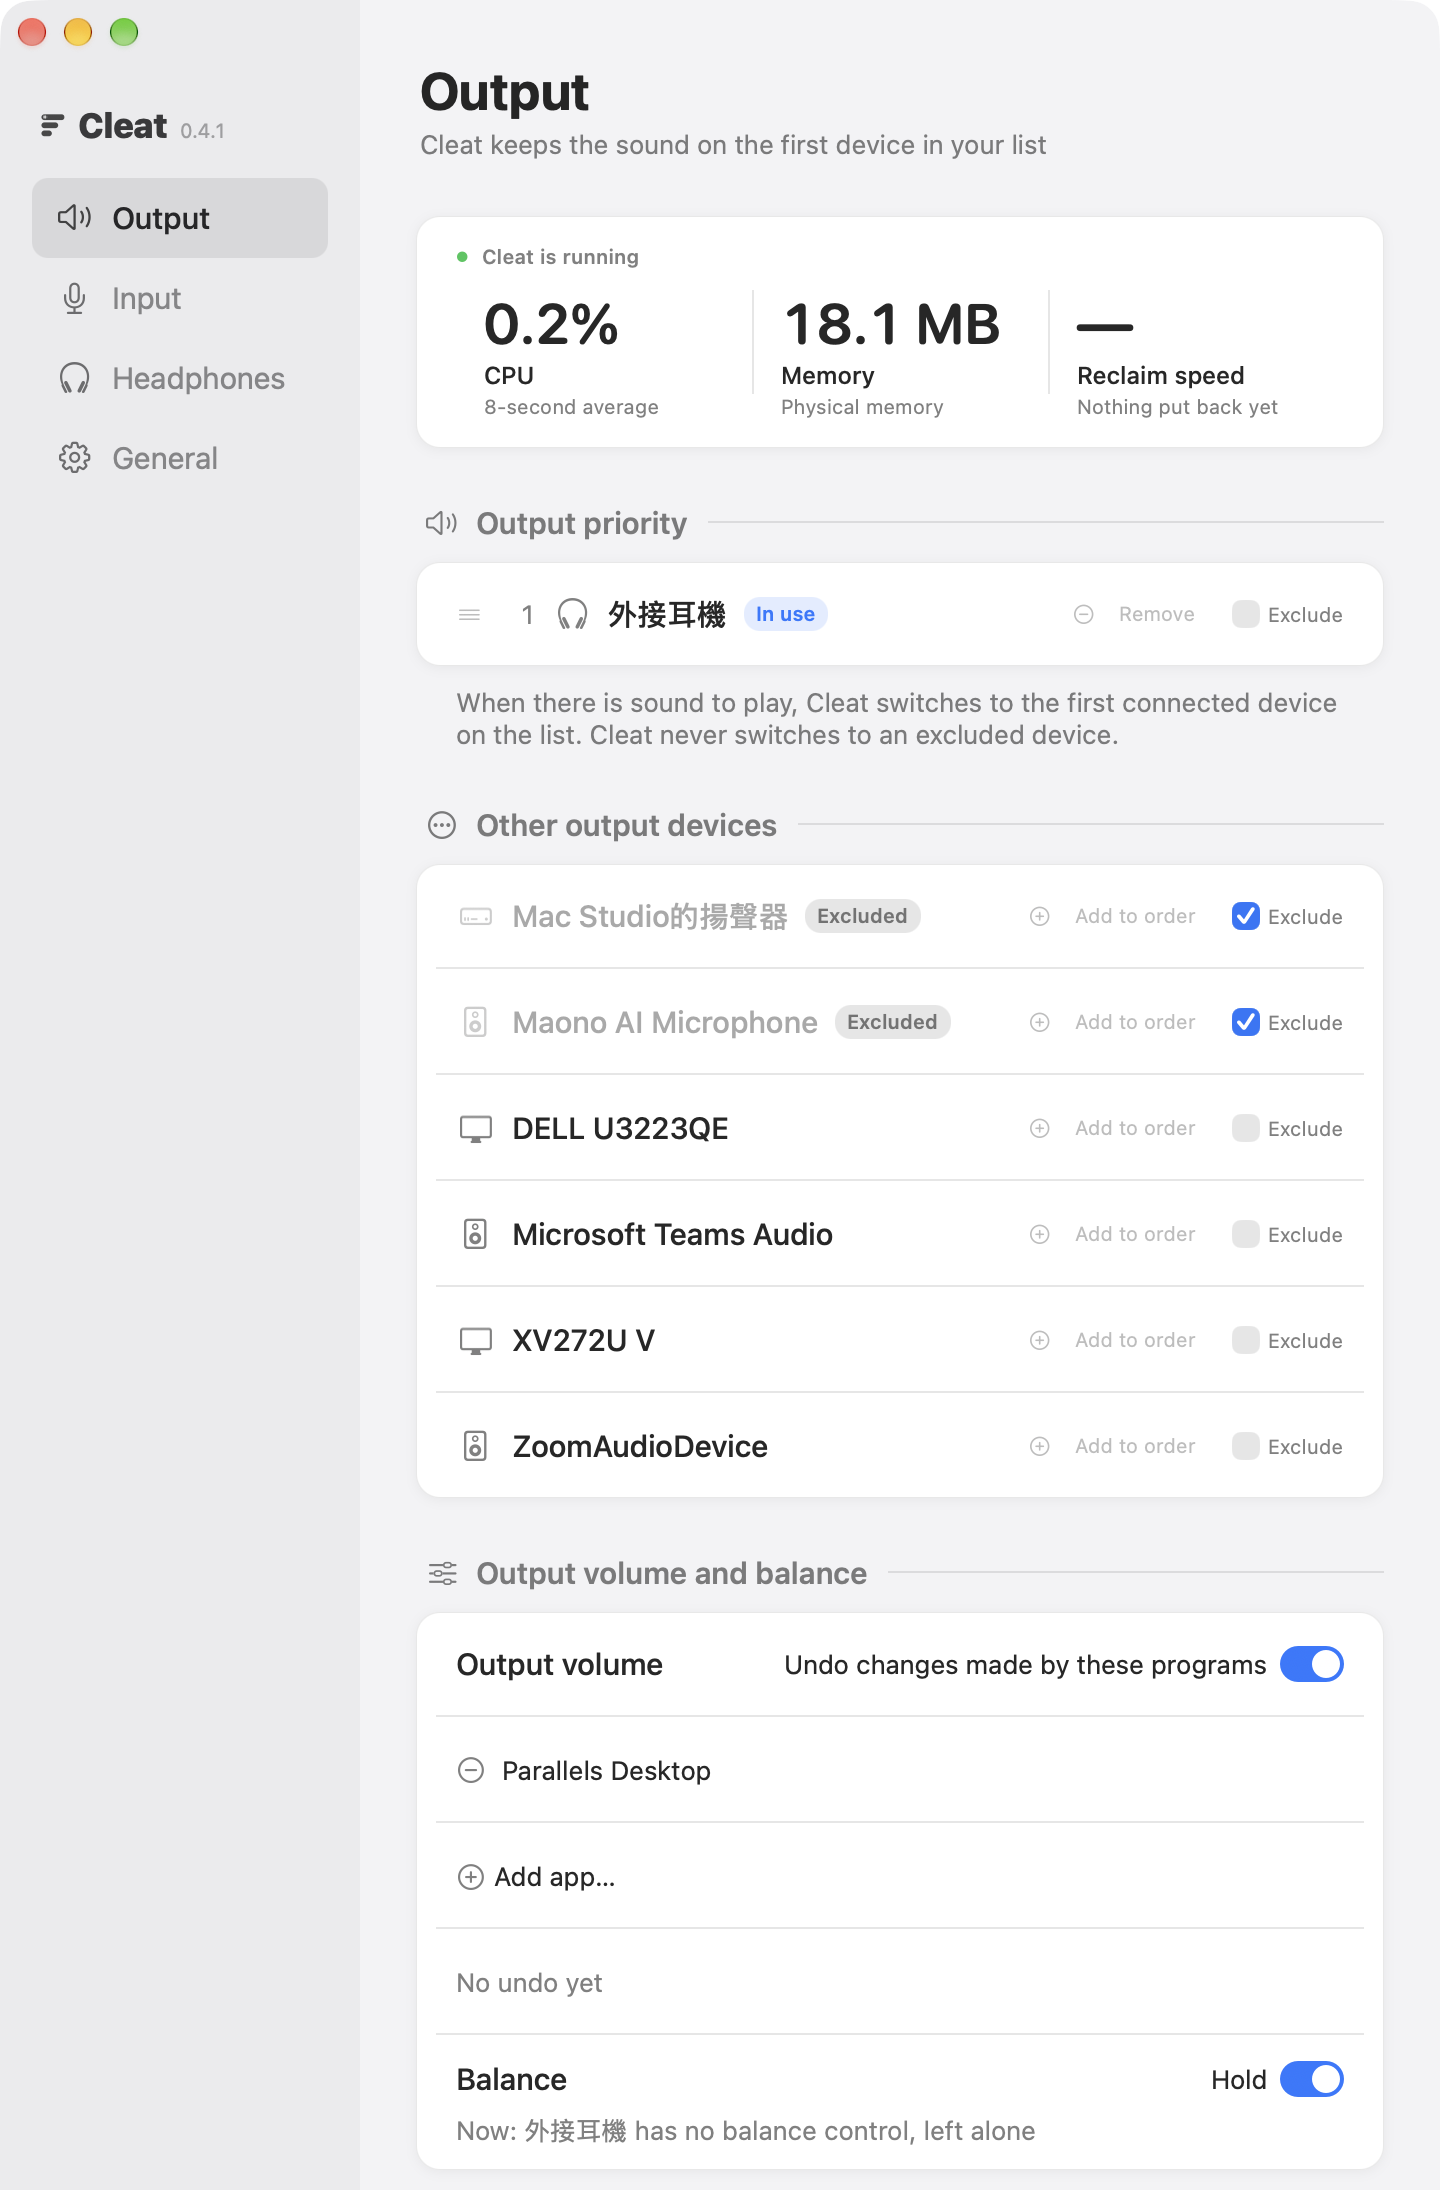
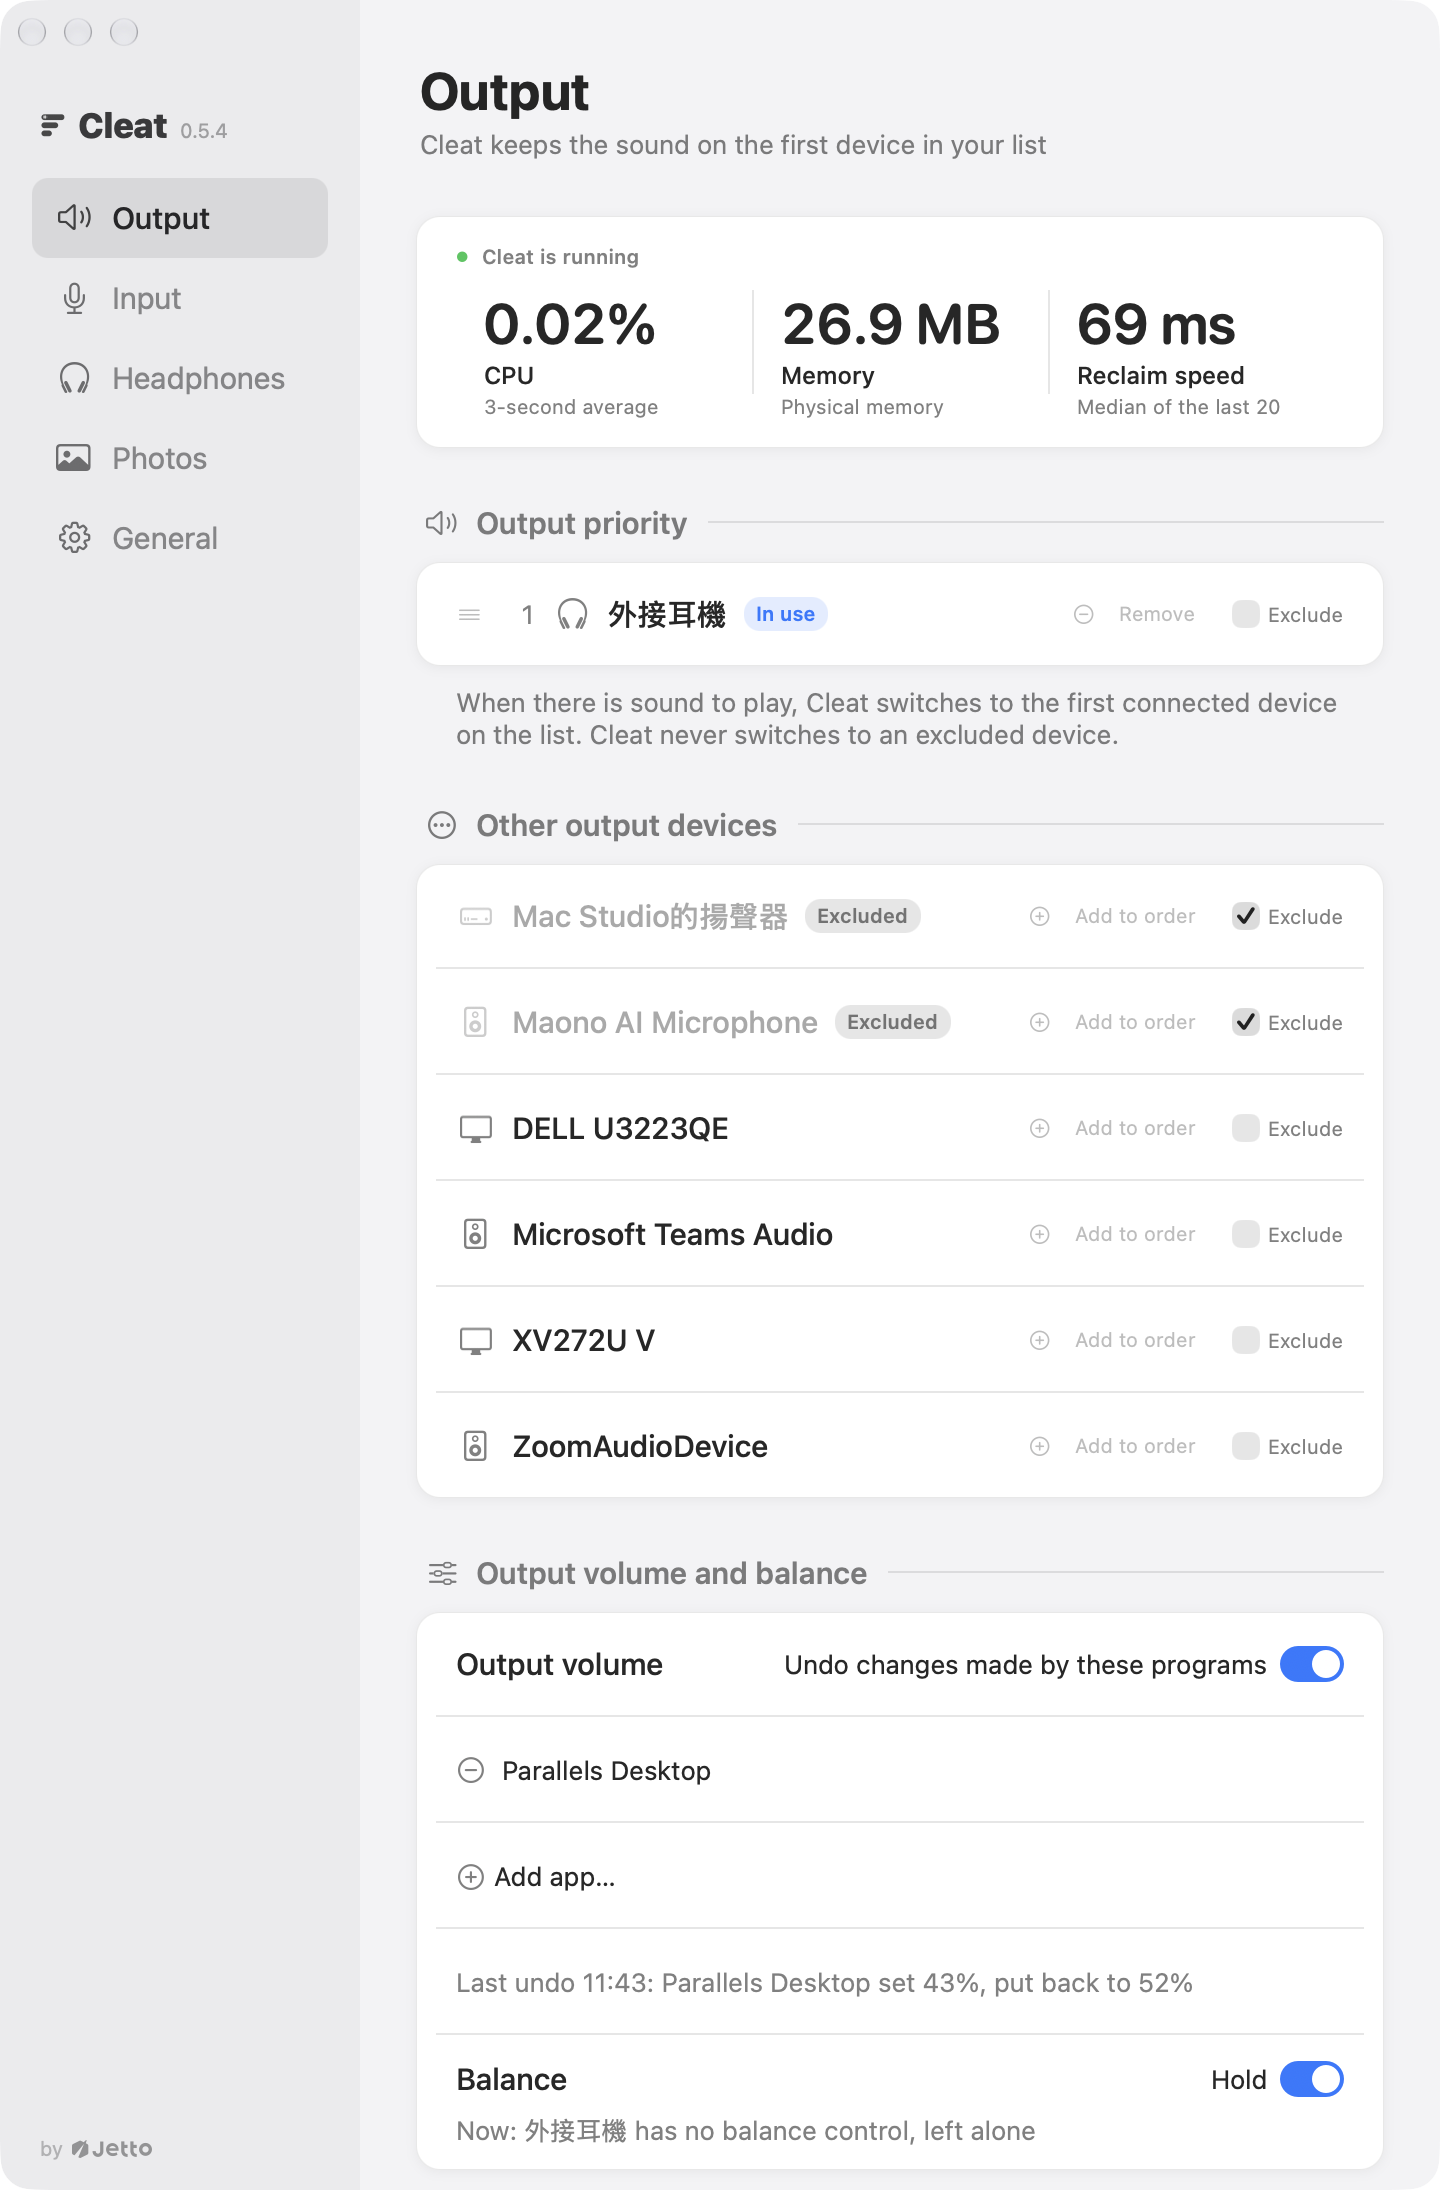
docs(readme): retake the settings screenshots and the hero on 0.5.4 so their numbers match the table (B-3169)
The four settings-page screenshots were 0.4.1 captures (17.9 MB, no reaction time) and the hero
was an illustration with 0.4.3's 29 MB and 36 ms. Retaken from the 0.5.4 debug build with the
app's own screenshot hooks (CLEAT_SETTINGS_PAGE, _HEIGHT, _APPEARANCE), background, one window
each, Mac idle >= 2 min: 26.9 MB, 0.01% to 0.02% CPU, 69 ms median of the last 20.
The hero source now says 0.5.4, 27 MB, 68 ms. Device names are the product names the old
screenshots already showed; no personal names.

Evidence: /private/tmp/claude-501/-Users-albertliu-workspace-jetto-cleat/15eac283-5f12-4564-9573-46415be70e52/scratchpad/b3169shots/out-dark.png
and strips.png (same directory).

diff --git a/assets/readme/src/hero.html b/assets/readme/src/hero.html
@@ -4,8 +4,8 @@
      would show the author's own hardware. Strings are the app's own (rs/src/settings/words.rs,
      rs/src/app/menubar.rs:171-193). Window layout and colours follow assets/screenshot-output*.png.
      Numbers: CPU 0.01 % is the daemon's figure in that screenshot (`cleat status` does not print it);
-     29 MB is the physical footprint measured with `footprint` on the installed 0.4.3, 2026-10-22;
-     "36 ms, median of the last 20" is `cleat status` reaction line, 2026-10-22 01:33.
+     27 MB is the physical footprint measured with `footprint` on the installed 0.5.4, 2026-10-28;
+     68 ms is the median of 50 timed input volume changes on that daemon (B-3171, README numbers table).
      Rendered by render.mjs at 840x480, deviceScaleFactor 2. -->
 <link rel="stylesheet" href="tokens.css">
 <style>
@@ -84,7 +84,7 @@ h1 { position: absolute; top: 31px; font-size: 25px; font-weight: 700; letter-sp
 <div class="wrap"><div class="win">
   <div class="side">
     <div class="dots"><b style="background:#f3564a"></b><b style="background:#fbba00"></b><b style="background:#2ec840"></b></div>
-    <div class="brand"><img class="dark-inv" src="../../../rs/bundle/MenuBarIcon@2x.png" alt=""><span>Cleat</span><small>0.4.3</small></div>
+    <div class="brand"><img class="dark-inv" src="../../../rs/bundle/MenuBarIcon@2x.png" alt=""><span>Cleat</span><small>0.5.4</small></div>
     <div class="nav">
       <div class="on"><svg class="i"><use href="#volume"/></svg>Output</div>
       <div><svg class="i"><use href="#mic"/></svg>Input</div>
@@ -99,8 +99,8 @@ h1 { position: absolute; top: 31px; font-size: 25px; font-weight: 700; letter-sp
       <div class="run"><i></i>Cleat is running</div>
       <div class="cols">
         <div><b>0.01%</b><div class="l">CPU</div><div class="n">61-second average</div></div>
-        <div><b>29 MB</b><div class="l">Memory</div><div class="n">Physical memory</div></div>
-        <div><b>36 ms</b><div class="l">Reclaim speed</div><div class="n">Median of the last 20</div></div>
+        <div><b>27 MB</b><div class="l">Memory</div><div class="n">Physical memory</div></div>
+        <div><b>68 ms</b><div class="l">Reclaim speed</div><div class="n">Median of the last 20</div></div>
       </div>
     </div>
     <div class="sec" style="top:248px"><svg class="i"><use href="#volume"/></svg>Output priority</div>
